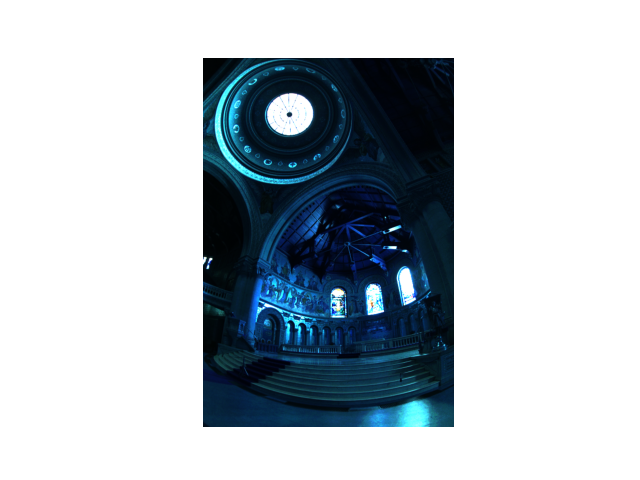
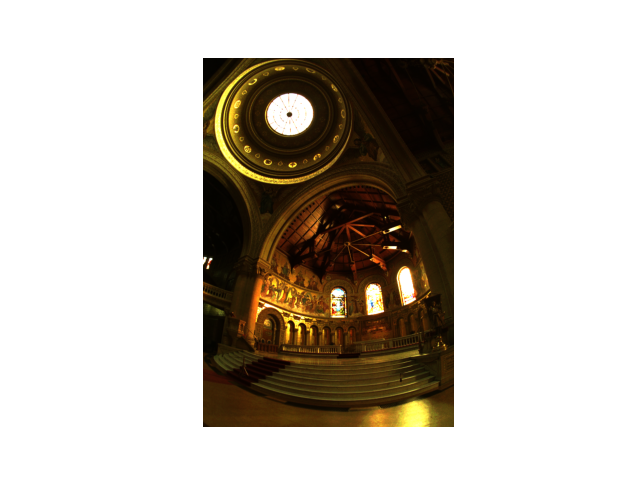
[ENH] Add rgb conversion for processing hdr merge in right color

Changed region(s): [[0.3125, 0.0938, 0.7188, 0.9062], [0.6562, 0.125, 0.7188, 0.1875], [0.3125, 0.5312, 0.3438, 0.5625]]

diff --git a/process_hdr_extension.py b/process_hdr_extension.py
@@ -8,10 +8,11 @@ hdr_path = str(Path(current_folder, filename + ".hdr"))
 
 
 img = cv2.imread(hdr_path,flags=cv2.IMREAD_ANYDEPTH)
+rgb = cv2.cvtColor(img, cv2.COLOR_BGR2RGB)
 
 import matplotlib.pyplot as plt
 
-plt.imshow(img)
+plt.imshow(rgb)
 plt.axis('off')
 result_path = Path(current_folder, filename + '.png')
 plt.savefig(result_path)
